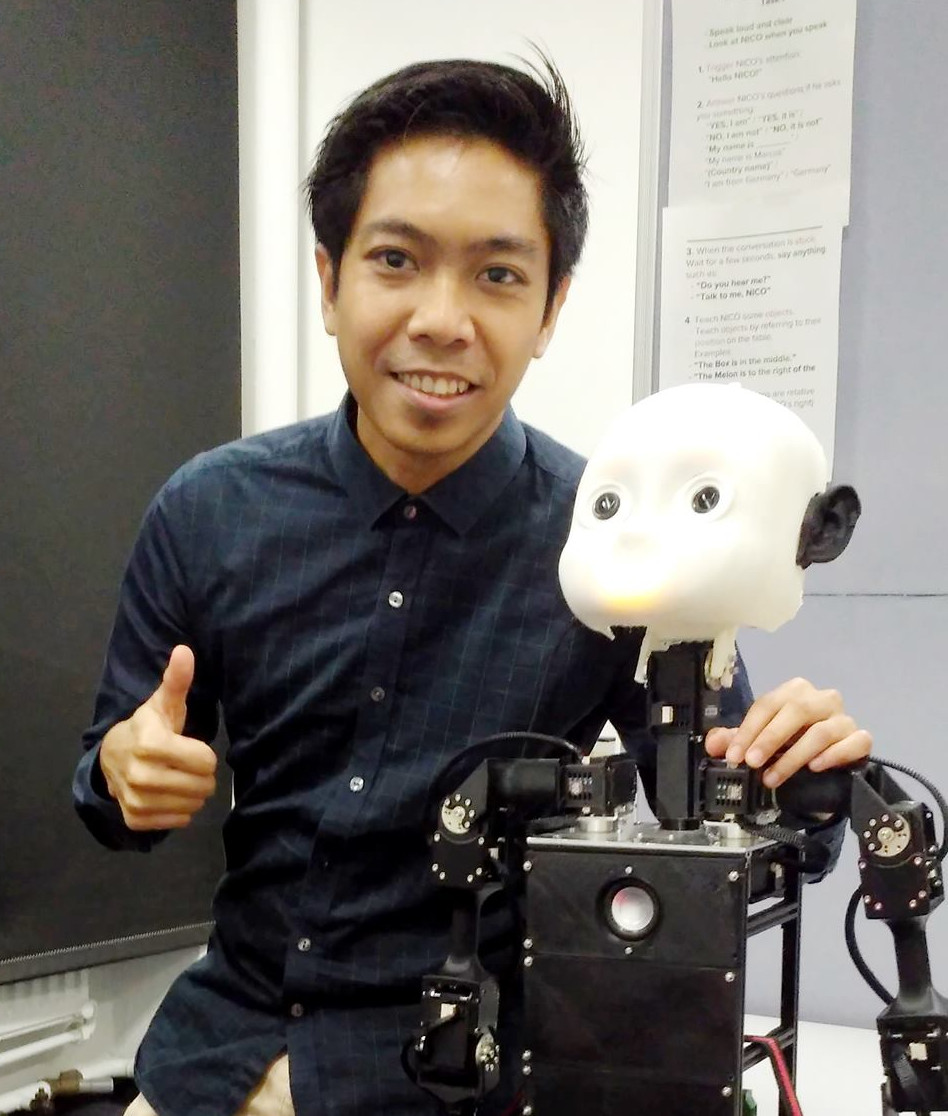
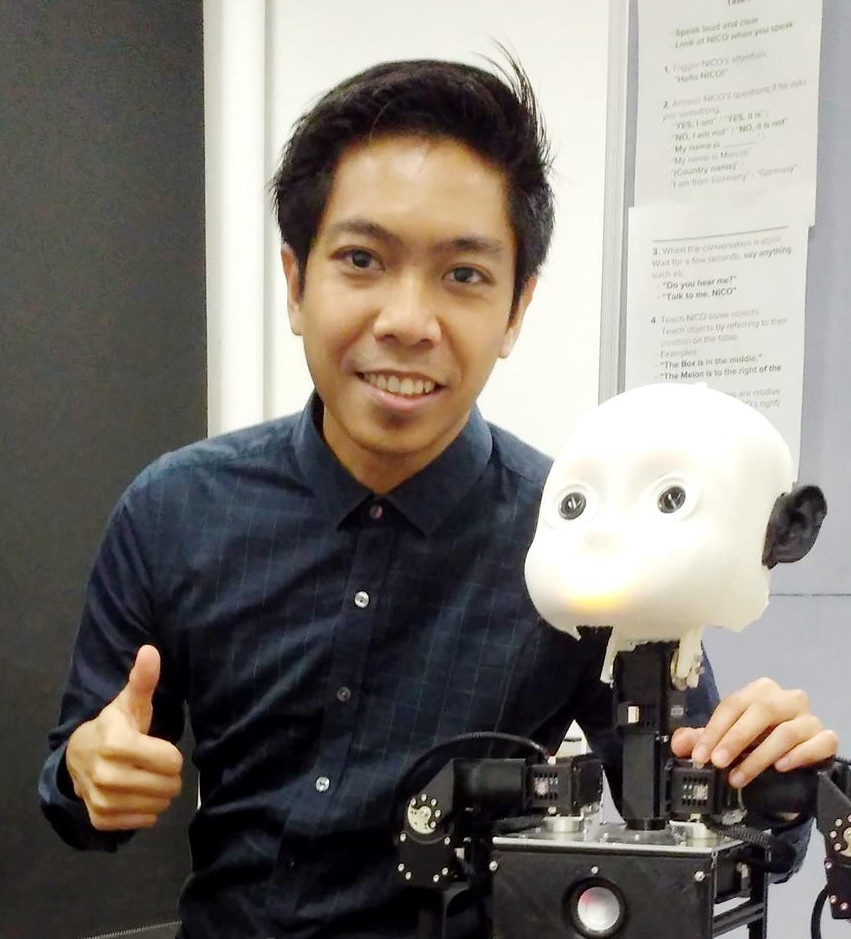
update

diff --git a/404.html b/404.html
@@ -33,7 +33,7 @@
                </div>
              </md-toolbar>
            <md-content style="text-align: justify; margin-top: 15px;">
-              <img src="assets/images/Alvin_foto.jpg" alt="Avatar" class="avatar">
+              <img src="assets/images/Alvin_foto_1.jpg" alt="Avatar" class="avatar">
              <div class="md-toolbar-tools">
                <label class="alv_label">Alvin Rindra Fazrie</label>
              </div>
